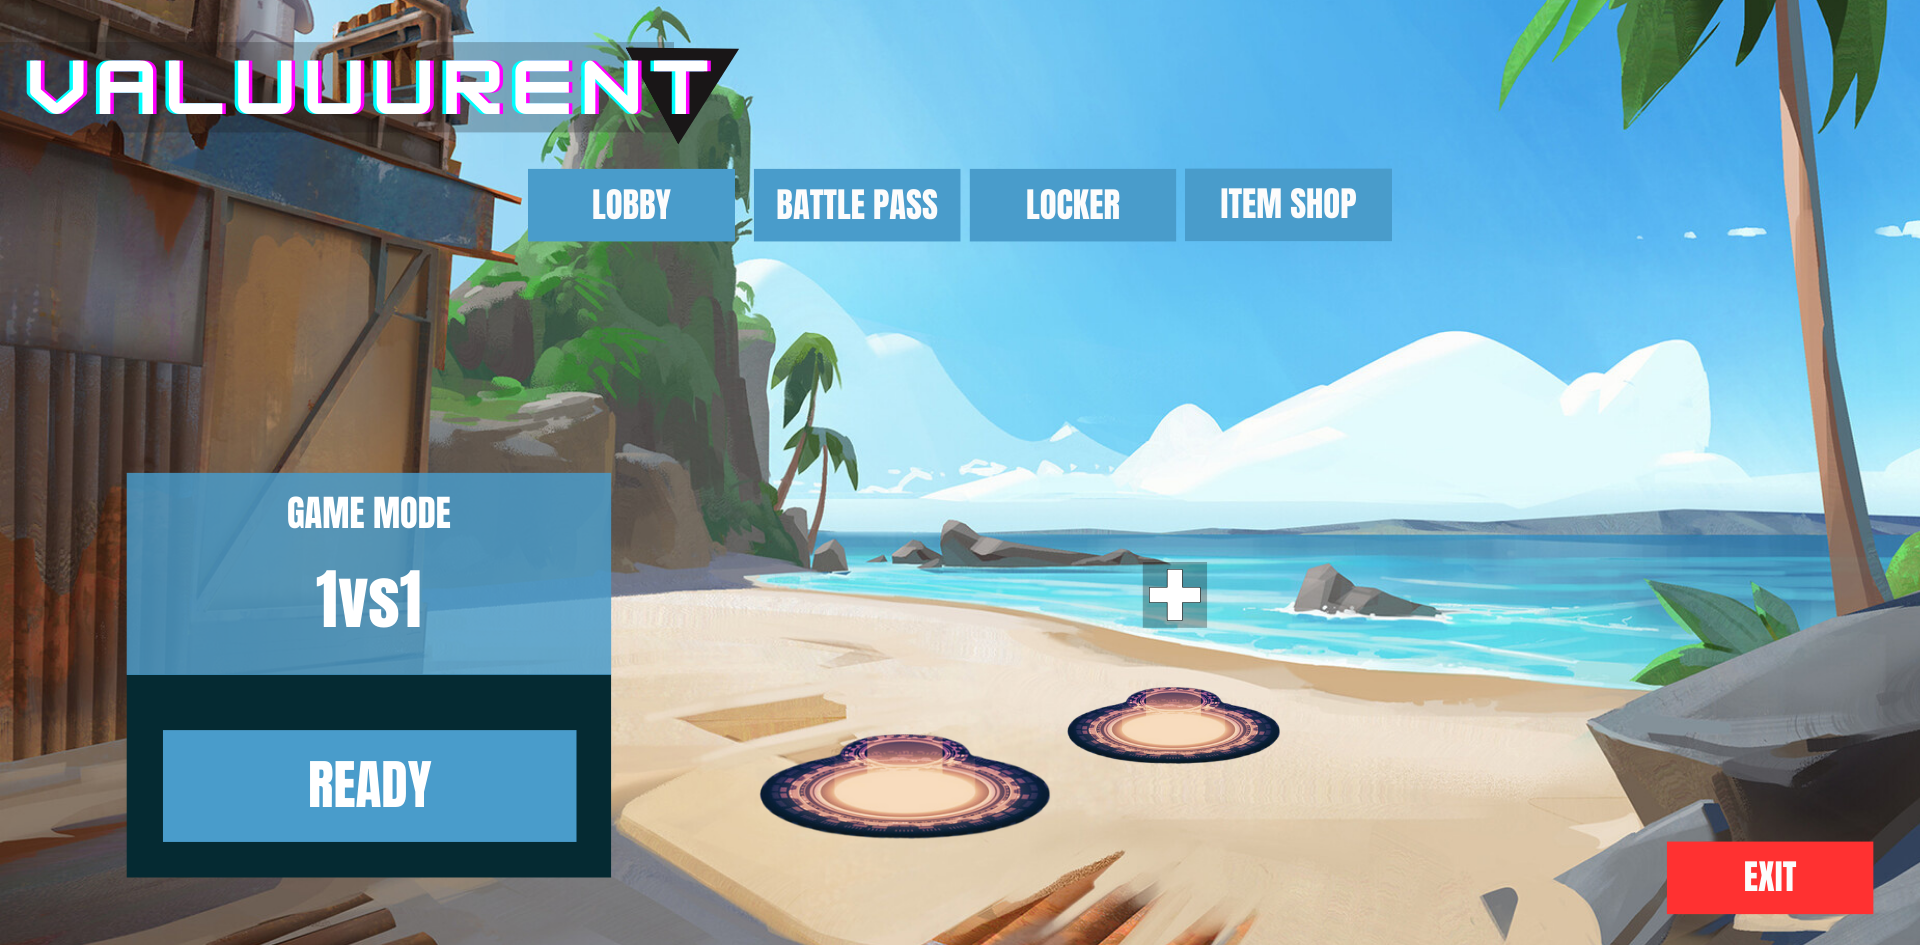
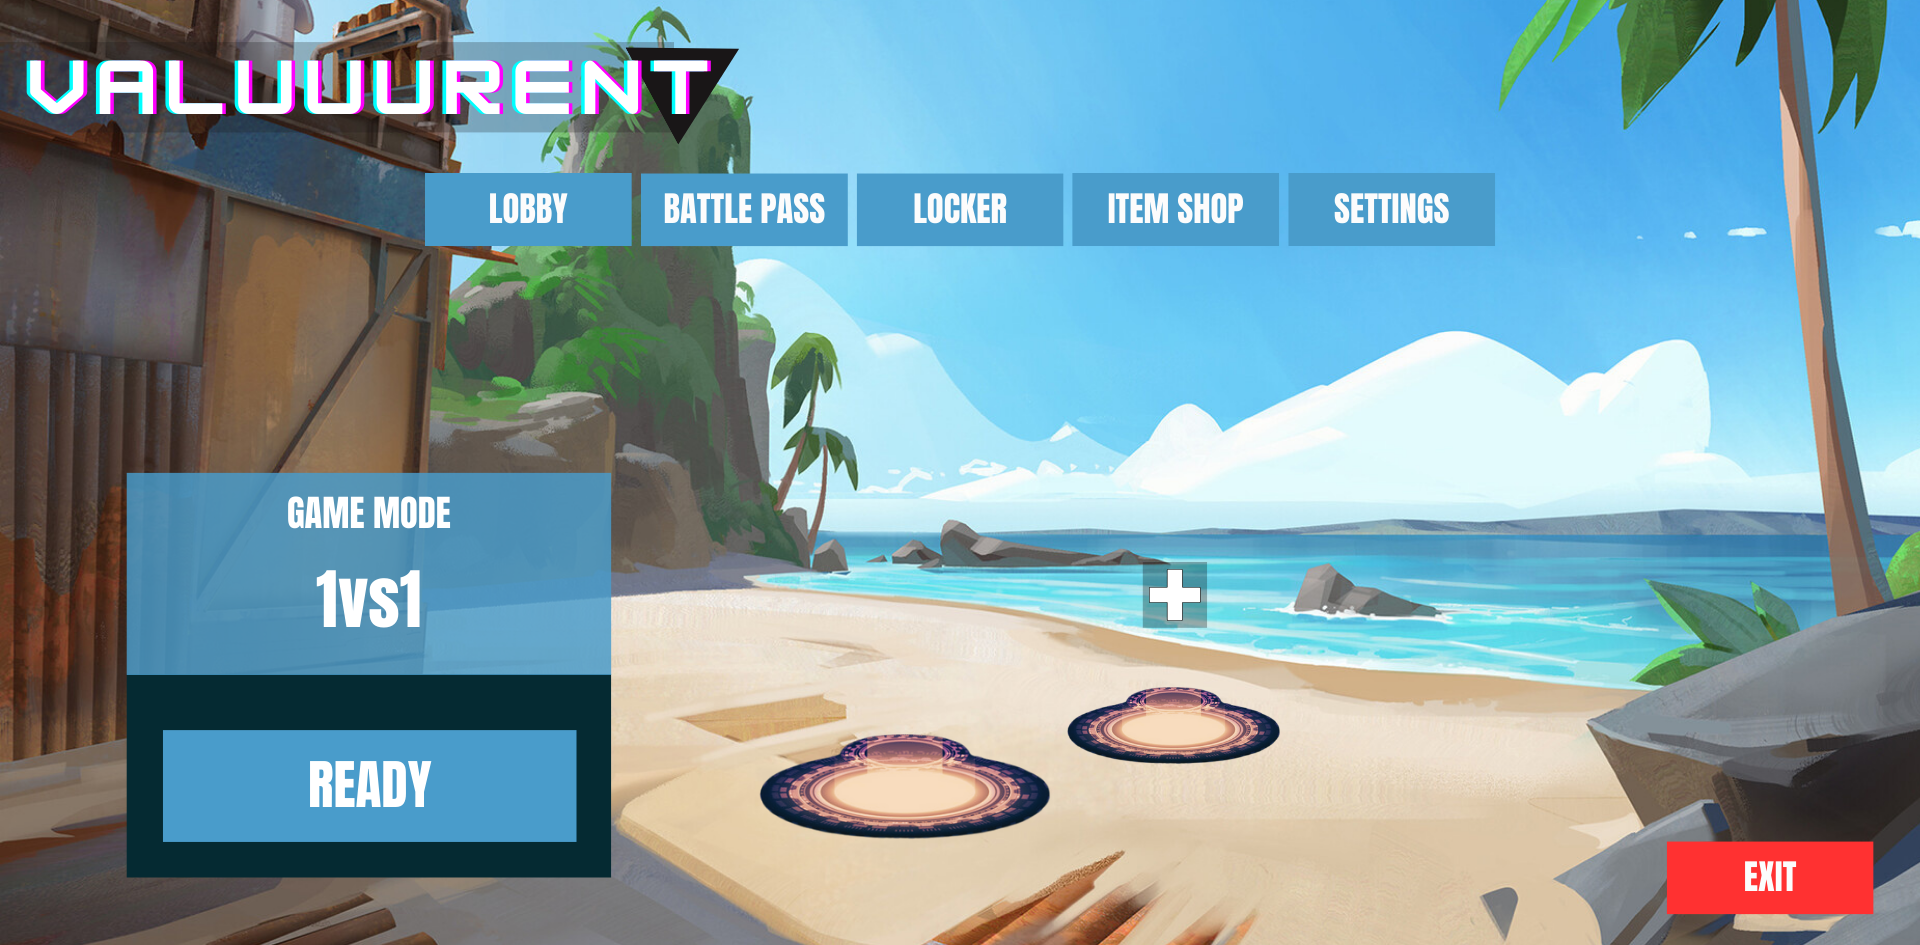
gutujg

Changed region(s): [[0.2188, 0.1534, 0.7812, 0.2762]]

diff --git a/core/src/com/mygdx/game/Screens/TitleScreen.java b/core/src/com/mygdx/game/Screens/TitleScreen.java
@@ -7,11 +7,15 @@ import com.badlogic.gdx.Gdx;
 import com.badlogic.gdx.Screen;
 import com.badlogic.gdx.graphics.GL20;
 import com.badlogic.gdx.graphics.Texture;
+import com.badlogic.gdx.graphics.g2d.TextureRegion;
 import com.badlogic.gdx.scenes.scene2d.InputEvent;
 import com.badlogic.gdx.scenes.scene2d.InputListener;
 import com.badlogic.gdx.scenes.scene2d.Stage;
+import com.badlogic.gdx.scenes.scene2d.ui.Image;
+import com.badlogic.gdx.scenes.scene2d.ui.ImageButton;
 import com.badlogic.gdx.scenes.scene2d.ui.Label;
 import com.badlogic.gdx.scenes.scene2d.ui.TextButton;
+import com.badlogic.gdx.scenes.scene2d.utils.TextureRegionDrawable;
 import com.badlogic.gdx.utils.Align;
 import com.badlogic.gdx.utils.viewport.ScreenViewport;
 import com.mygdx.game.Character.GameActor;
@@ -25,36 +29,41 @@ public class TitleScreen implements Screen {
     private Game game;
     private GameScreen2 gameScreen2;
 
+    private GameActor background;
+
     public TitleScreen(Game aGame) {
         game = aGame;
         stage = new Stage(new ScreenViewport());
 
-        Label title = new Label("Welcome to valuurent", ScreenGame.gameSkin, "big-black");
-        title.setAlignment(Align.center);
-        title.setY(Gdx.graphics.getHeight() * 2 / 3);
-        title.setWidth(Gdx.graphics.getWidth());
-        stage.addActor(title);
+        Texture texture = new Texture(Gdx.files.internal("images/Logo.png"));
+        Image image = new Image(texture);
+        image.setPosition(Gdx.graphics.getWidth() / 2 - image.getWidth() / 2, Gdx.graphics.getHeight() * 2 / 3.6f);
+        stage.addActor(image);
 
-        TextButton playButton = new TextButton("Arena", ScreenGame.gameSkin);
-        playButton.setWidth(Gdx.graphics.getWidth() / 4);
-        playButton.setPosition(Gdx.graphics.getWidth() / 2 - playButton.getWidth() / 2, Gdx.graphics.getHeight() / 2 - playButton.getHeight() / 2);
-        playButton.addListener(new InputListener() {
+        Texture buttonTexture = new Texture(Gdx.files.internal("images/CONTINUE.png")); // Laden des Bildes
+        ImageButton.ImageButtonStyle style = new ImageButton.ImageButtonStyle();
+        style.imageUp = new TextureRegionDrawable(new TextureRegion(buttonTexture));
+        ImageButton button = new ImageButton(style);
+        button.setPosition(800, 450);
+
+        button.addListener(new InputListener() {
             @Override
             public void touchUp(InputEvent event, float x, float y, int pointer, int button) {
-                game.setScreen(gameScreen2);
+                game.setScreen(new GameScreen2(game)); // Wechsle zu GameScreen2, wenn der Button losgelassen wird
             }
-
             @Override
             public boolean touchDown(InputEvent event, float x, float y, int pointer, int button) {
                 return true;
             }
         });
-        stage.addActor(playButton);
+        stage.addActor(button);
 
-        TextButton optionsButton = new TextButton("Options", ScreenGame.gameSkin);
-        optionsButton.setWidth(Gdx.graphics.getWidth() / 4);
-        optionsButton.setPosition(Gdx.graphics.getWidth() / 2 - optionsButton.getWidth() / 2, Gdx.graphics.getHeight() / 3 - optionsButton.getHeight() / 2);
-        optionsButton.addListener(new InputListener() {
+        Texture Bt = new Texture(Gdx.files.internal("images/Settings.png")); // Laden des Bildes
+        ImageButton.ImageButtonStyle ss = new ImageButton.ImageButtonStyle();
+        ss.imageUp = new TextureRegionDrawable(new TextureRegion(Bt));
+        ImageButton bb = new ImageButton(ss);
+        bb.setPosition(800, 250);
+        bb.addListener(new InputListener() {
             @Override
             public void touchUp(InputEvent event, float x, float y, int pointer, int button) {
                 game.setScreen(new OptionScreen(game));
@@ -65,7 +74,25 @@ public class TitleScreen implements Screen {
                 return true;
             }
         });
-        stage.addActor(optionsButton);
+        stage.addActor(bb);
+
+        Texture exitTexture = new Texture(Gdx.files.internal("images/Exitt.png")); // Laden des Bildes
+        ImageButton.ImageButtonStyle exitStyle = new ImageButton.ImageButtonStyle();
+        exitStyle.imageUp = new TextureRegionDrawable(new TextureRegion(exitTexture));
+        ImageButton exitButton = new ImageButton(exitStyle);
+        exitButton.setPosition(800, 50);
+        exitButton.addListener(new InputListener() {
+            @Override
+            public void touchUp(InputEvent event, float x, float y, int pointer, int button) {
+                game.setScreen(new GameScreen(game));
+            }
+            @Override
+            public boolean touchDown(InputEvent event, float x, float y, int pointer, int button) {
+                return true;
+            }
+        });
+        stage.addActor(exitButton);
+
 
         // Weitere Buttons und Elemente hier hinzufügen...
 
@@ -81,6 +108,7 @@ public class TitleScreen implements Screen {
     public void render(float delta) {
         Gdx.gl.glClearColor(1, 1, 1, 1);
         Gdx.gl.glClear(GL20.GL_COLOR_BUFFER_BIT);
+
 
         // Rendere den GameScreen2
         gameScreen2.render(delta);

diff --git a/core/src/com/mygdx/game/Screens/GameScreen2.java b/core/src/com/mygdx/game/Screens/GameScreen2.java
@@ -11,20 +11,28 @@ import com.mygdx.game.Character.Spieler;
 public class GameScreen2 implements Screen {
     private Game game;
     private Stage stage;
-    private Spieler spieler;
+    private static Spieler spieler; // Statische Variable für den Spieler
     private GameActor background;
+    private boolean initialized;
 
     public GameScreen2(Game aGame) {
         game = aGame;
         stage = new Stage(new ScreenViewport());
-        initStage();
+        initialized = false;
     }
 
     @Override
-    public void show() {}
+    public void show() {
+        if (!initialized) {
+            initStage();
+            initialized = true;
+        }
+    }
 
     @Override
     public void render(float delta) {
+        if (!initialized) return; // Abbrechen, wenn der Bildschirm nicht initialisiert wurde
+
         Gdx.gl.glClearColor(1, 1, 1, 1);
         Gdx.gl.glClear(GL20.GL_COLOR_BUFFER_BIT);
 
@@ -40,30 +48,43 @@ public class GameScreen2 implements Screen {
         if (Gdx.input.isKeyPressed(Input.Keys.ESCAPE)) {
             game.setScreen(new TitleScreen(game));
             dispose();
+
             return;
         }
     }
 
     @Override
-    public void resize(int width, int height) {}
+    public void resize(int width, int height) {
+
+    }
 
     @Override
-    public void pause() {}
+    public void pause() {
+
+    }
 
     @Override
-    public void resume() {}
+    public void resume() {
+
+    }
 
     @Override
-    public void hide() {}
+    public void hide() {
+
+    }
 
     @Override
     public void dispose() {
-        stage.dispose();
+
     }
+
+    // Andere Methoden wie zuvor
 
     private void initStage() {
         Texture spielerTexture = new Texture("images/jett.png");
-        spieler = new Spieler((int)spieler.getX(), (int)spieler.getY(), spielerTexture); // Setze die Startposition des Spielers auf (1800, 0)
+        if (spieler == null) {
+            spieler = new Spieler(1800, 0, spielerTexture); // Erstelle den Spieler, wenn er noch nicht existiert
+        }
         background = new GameActor(0, 0, new Texture("images/Map.png"));
         stage.addActor(background);
         stage.addActor(spieler);

diff --git a/core/src/com/mygdx/game/Screens/GameScreen.java b/core/src/com/mygdx/game/Screens/GameScreen.java
@@ -44,11 +44,6 @@ public class GameScreen implements Screen {
         if (!gameEnd) {
             // Handle game logic
         }
-        if (Gdx.input.isKeyPressed(Input.Keys.ESCAPE)) {
-            game.setScreen(new TitleScreen(game));
-            dispose(); // Aufräumen der aktuellen Screen-Ressourcen
-            return;
-        }
 
         stage.act();
         stage.draw();
@@ -94,6 +89,25 @@ public class GameScreen implements Screen {
             }
         });
         stage.addActor(exitButton);
+
+        Texture Setting = new Texture(Gdx.files.internal("images/Ready.png")); // Laden des Bildes
+        ImageButtonStyle sstyle = new ImageButtonStyle();
+        sstyle.imageUp = new TextureRegionDrawable(new TextureRegion(Setting));
+        ImageButton Settingbutton = new ImageButton(sstyle);
+        Settingbutton.setPosition(1299, 640);
+        Settingbutton.addListener(new InputListener() {
+            @Override
+            public void touchUp(InputEvent event, float x, float y, int pointer, int button) {
+                game.setScreen(new OptionScreen(game)); // Wechsle zu GameScreen2, wenn der Button losgelassen wird
+            }
+            @Override
+            public boolean touchDown(InputEvent event, float x, float y, int pointer, int button) {
+                return true;
+            }
+        });
+        stage.addActor(Settingbutton);
+
+
     }
 
     @Override
